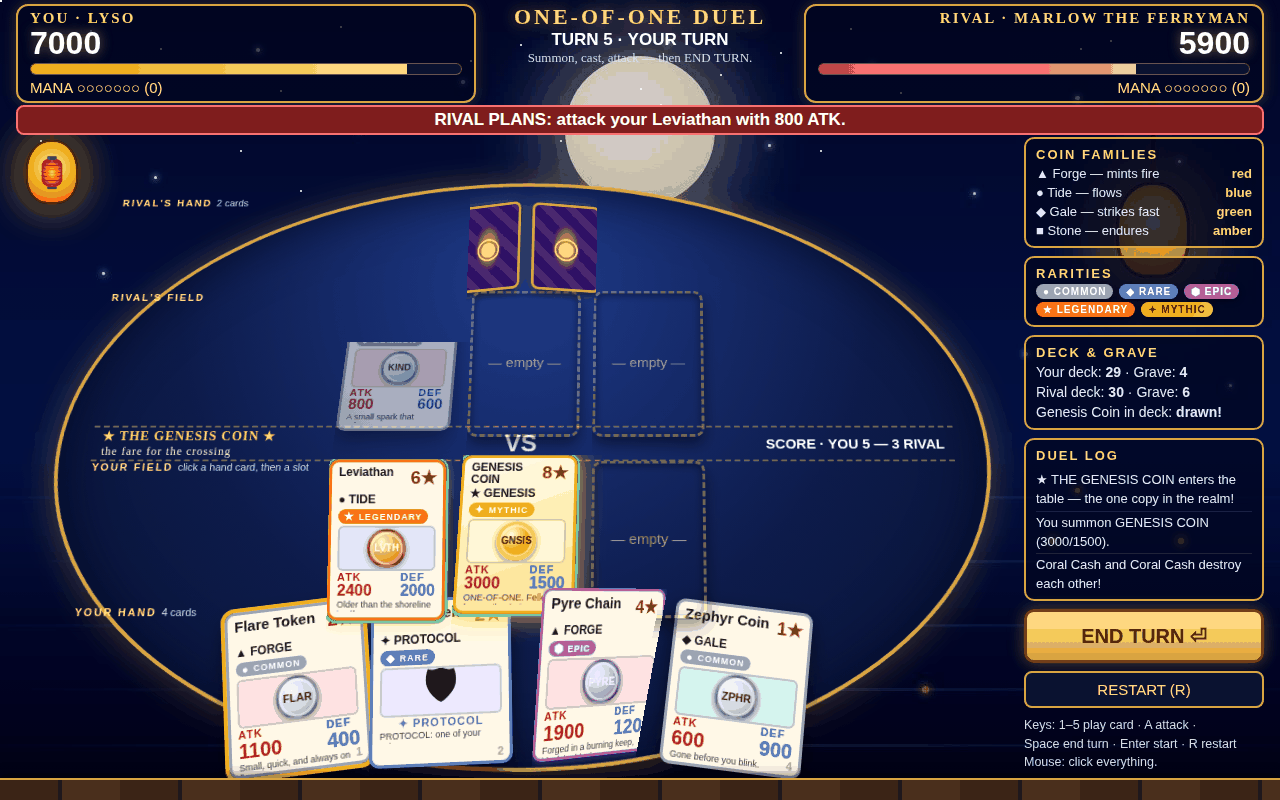
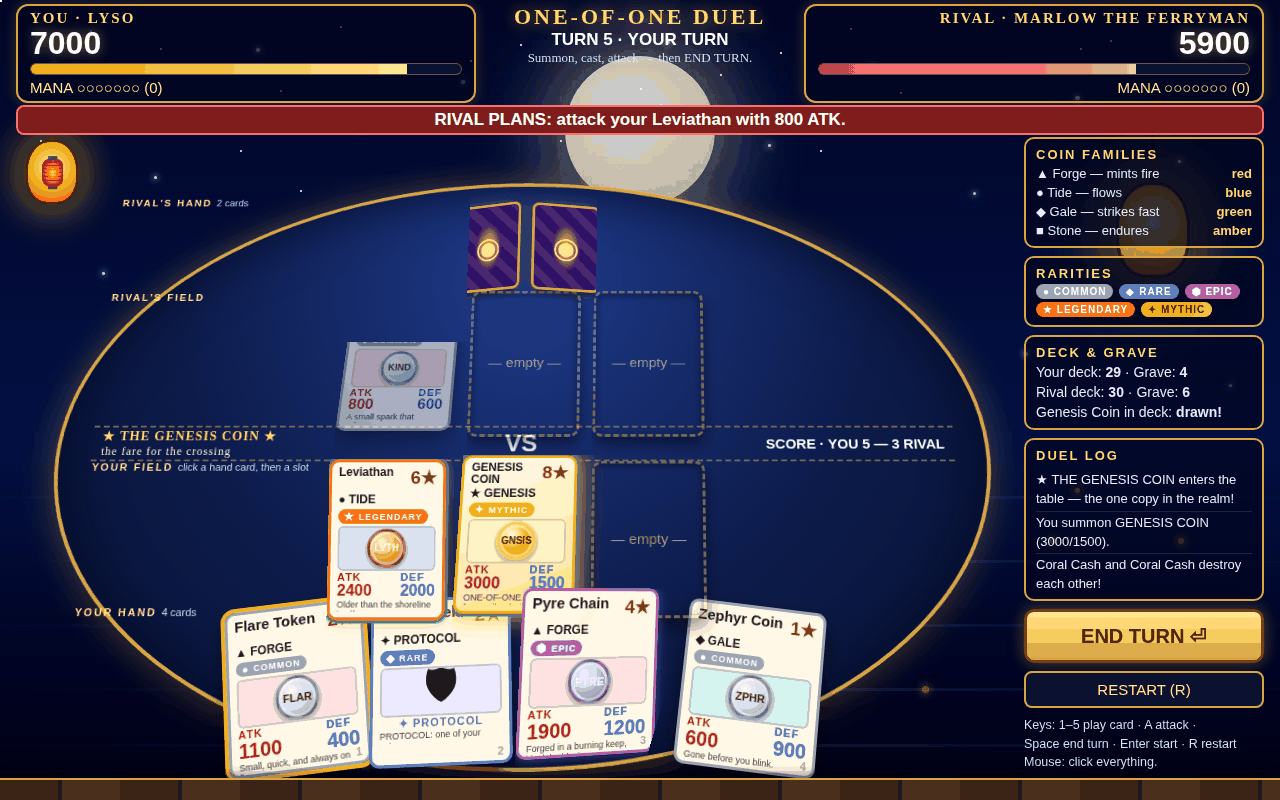
Cover fix 2: mid-flip Pyre Chain rotateY 32deg -> 20deg so DEF 1200 reads fully; Zephyr +14px / Pyre -8px gap

diff --git a/game/style.css b/game/style.css
@@ -231,8 +231,8 @@ body.shot .title-moon, body.shot .ferryman .flame { animation: none !important; 
    hand card is caught mid-flip, dealing into the hand. */
 body.shot #you-hand .card:nth-child(1) { transform: rotateZ(-7deg) translateY(8px); }
 body.shot #you-hand .card:nth-child(2) { transform: rotateZ(-2.5deg) translateZ(12px); }
-body.shot #you-hand .card:nth-child(3) { transform: translateY(-12px) rotateY(32deg) rotateX(-6deg) translateZ(24px); }
-body.shot #you-hand .card:nth-child(4) { transform: rotateZ(7deg) translateY(8px); }
+body.shot #you-hand .card:nth-child(3) { transform: translateX(-8px) translateY(-12px) rotateY(20deg) rotateX(-6deg) translateZ(24px); }
+body.shot #you-hand .card:nth-child(4) { transform: translateX(14px) rotateZ(7deg) translateY(8px); }
 body.shot #you-field .card { transform: rotateX(-7deg) translateZ(22px); }
 body.shot #you-field .card.hero-3d { transform: rotateX(8deg) translateZ(30px); }
 body.shot #rival-field .card { transform: rotateX(10deg) translateZ(8px); }
